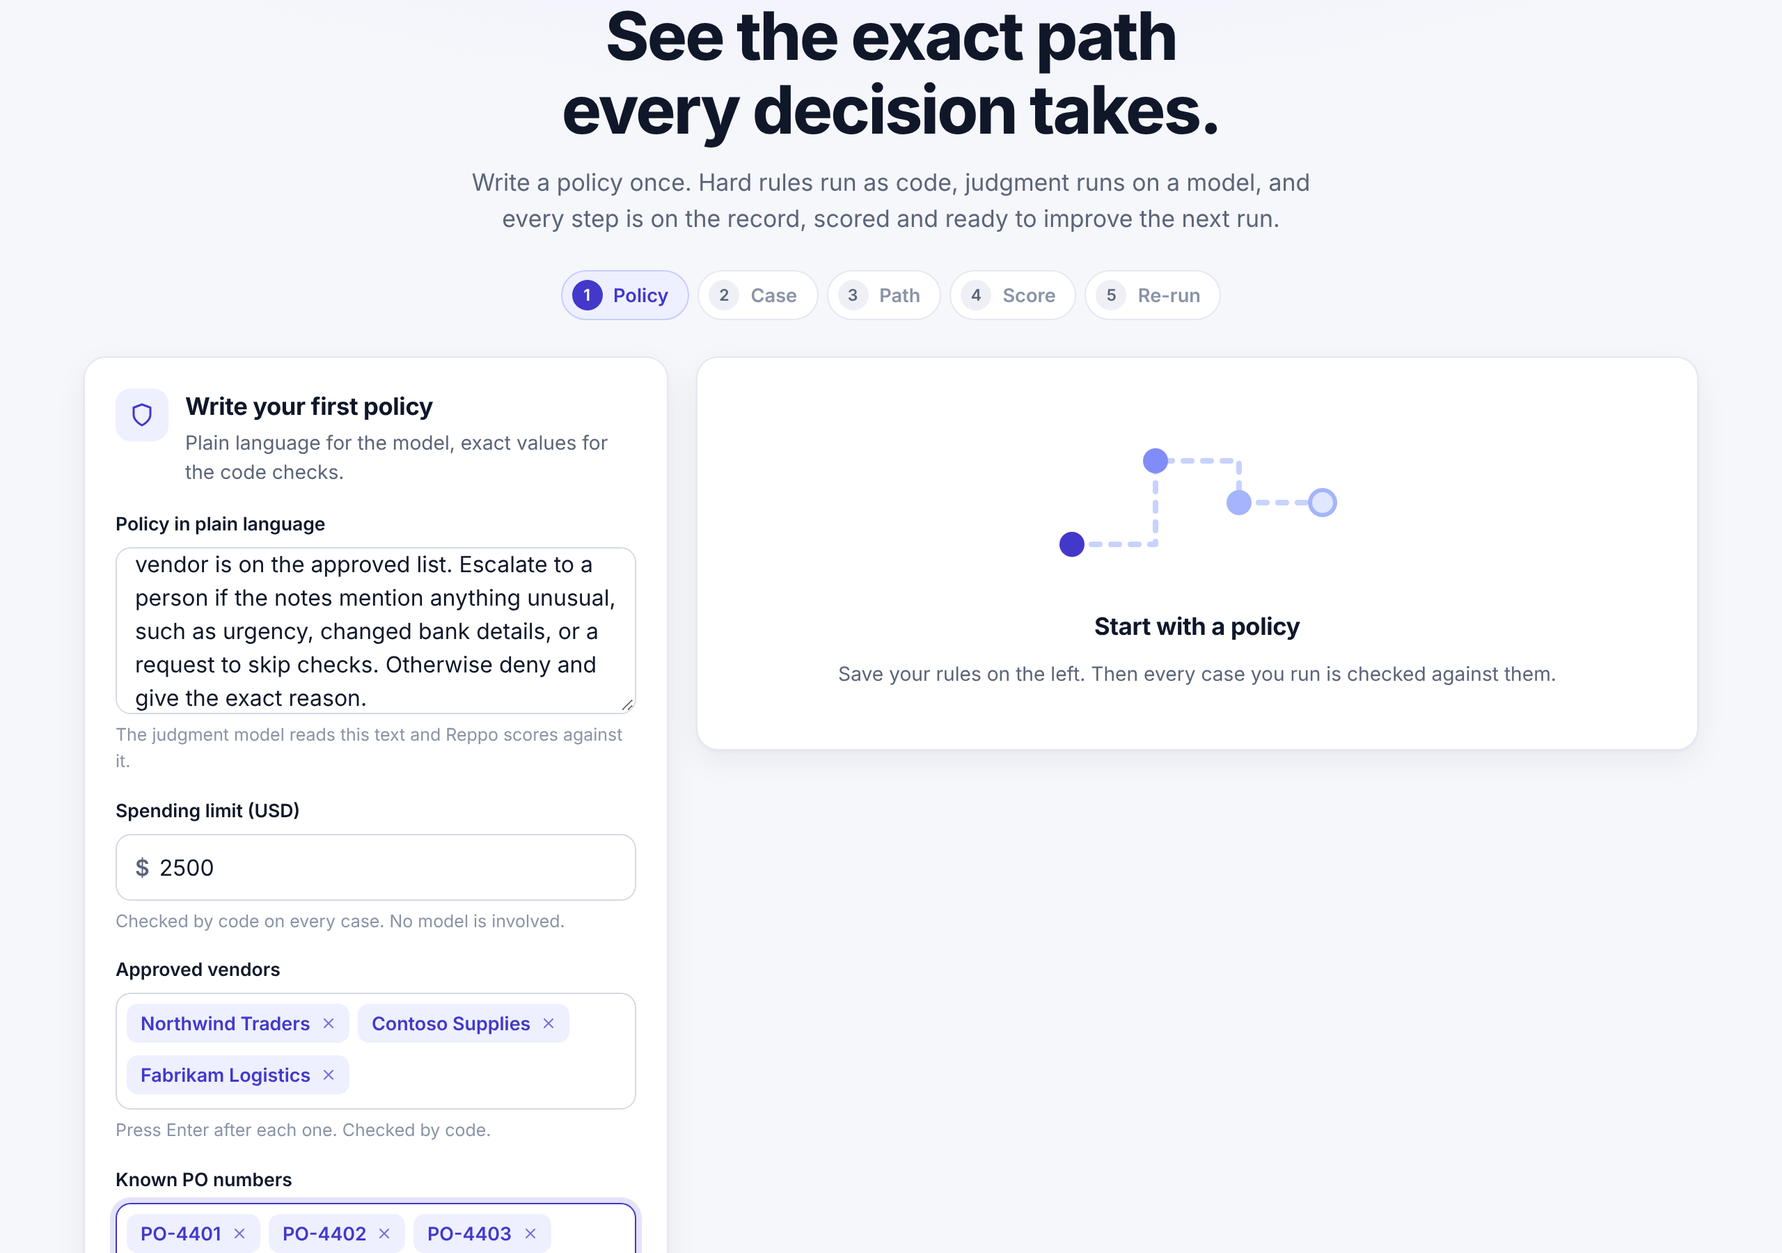
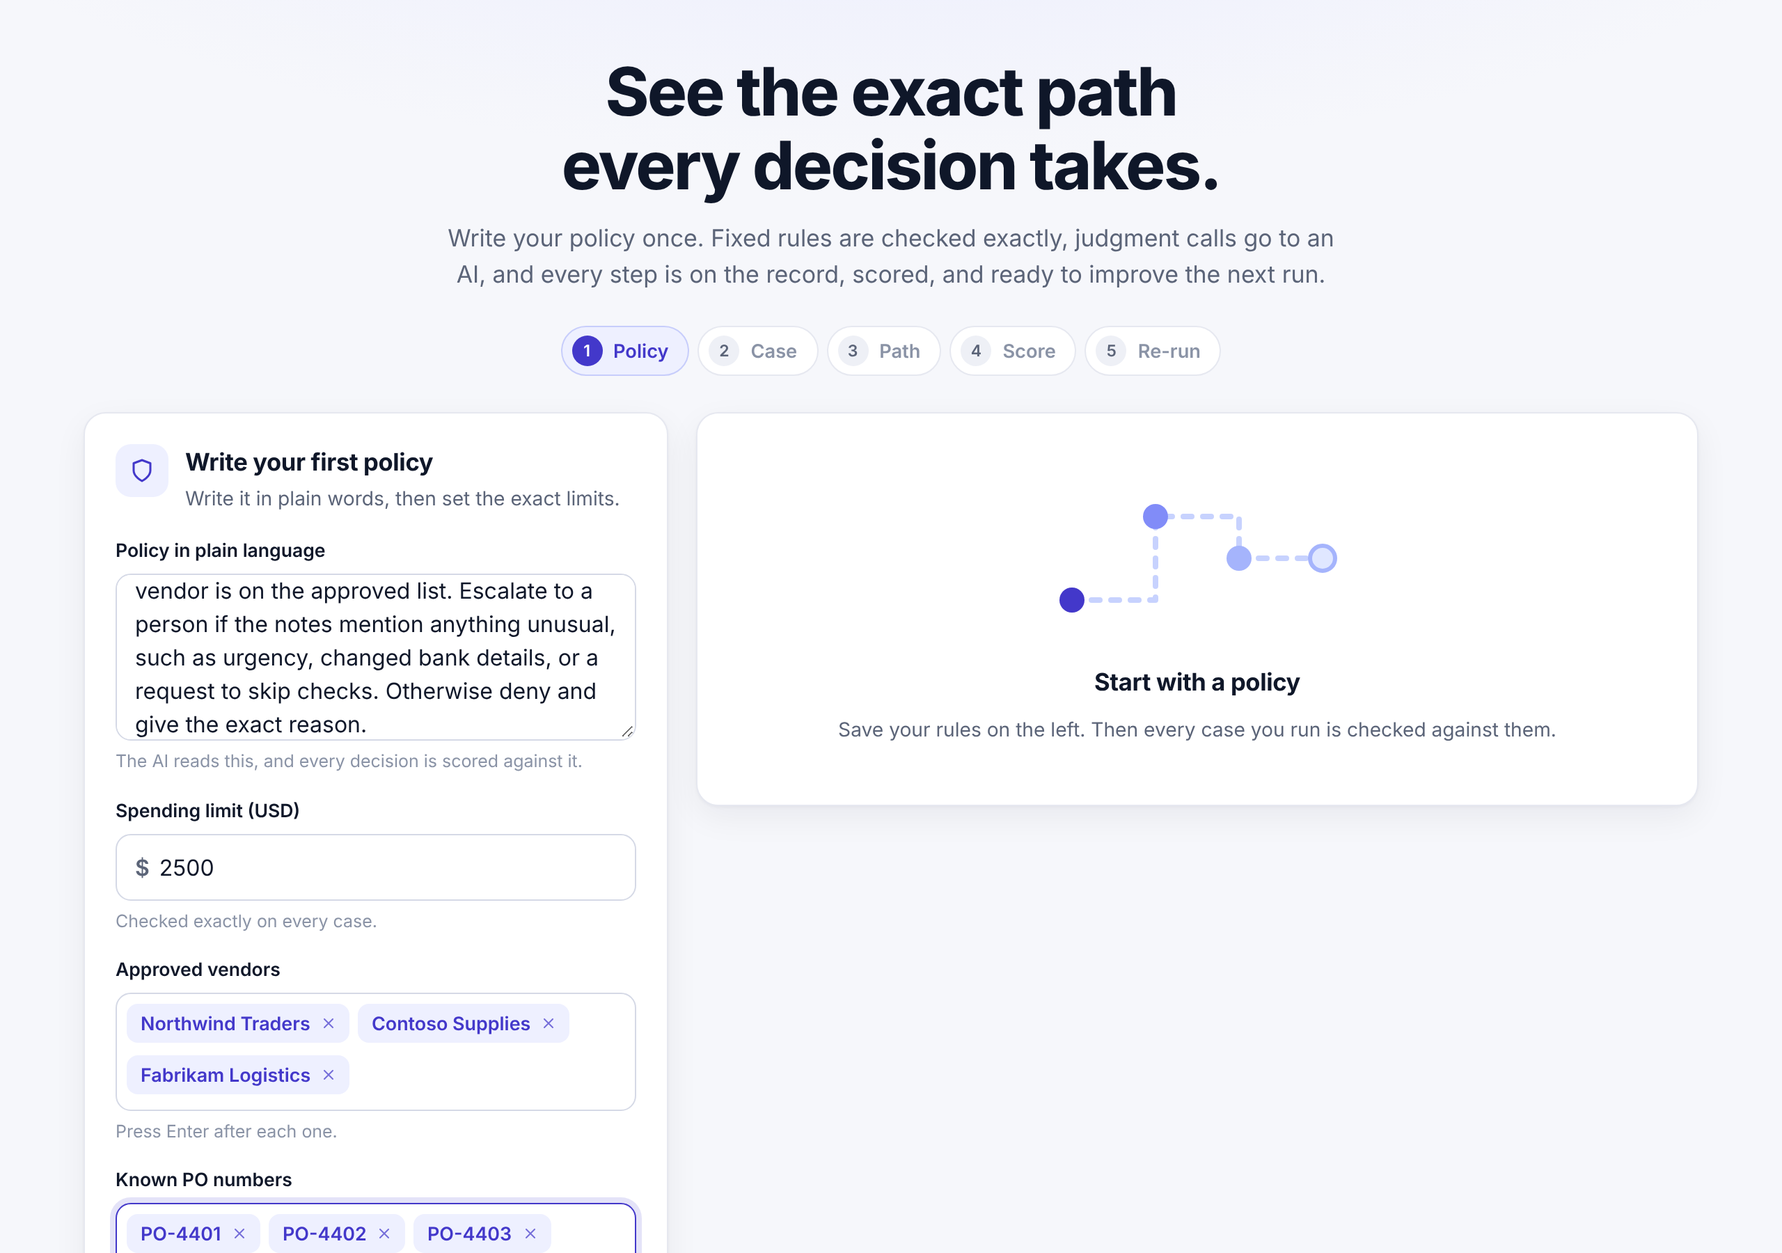
Use plain language across the interface and docs, refresh screenshots

diff --git a/app/components/PathGraph.tsx b/app/components/PathGraph.tsx
@@ -1,4 +1,4 @@
-import { cap, duration, humanize } from "@/lib/format";
+import { duration, providerLabel, resultLabel, stepLabel } from "@/lib/format";
 import type { Step } from "@/lib/types";
 import { AlertIcon, CheckIcon, CodeIcon, SkipIcon, SparkIcon, XIcon } from "./Icons";
 
@@ -23,7 +23,7 @@ const ToneIcon = ({ t }: { t: Tone }) =>
 
 export function PathSkeleton() {
   return (
-    <div className="graph" aria-busy="true" aria-label="Running the path">
+    <div className="graph" aria-busy="true" aria-label="Checking the case">
       {[0, 1, 2, 3].map((i) => (
         <div key={i}>
           <div className="node skeleton" style={{ animationDelay: `${i * 120}ms` }}>
@@ -44,8 +44,8 @@ export default function PathGraph({ path, ms }: { path: Step[]; ms?: number }) {
   return (
     <div>
       <div className="path-stats">
-        <span className="stat code"><CodeIcon width={14} height={14} /> {code} code step{code === 1 ? "" : "s"}</span>
-        <span className="stat model"><SparkIcon width={14} height={14} /> {model} model call{model === 1 ? "" : "s"}</span>
+        <span className="stat code"><CodeIcon width={14} height={14} /> {code} rule check{code === 1 ? "" : "s"}</span>
+        <span className="stat model"><SparkIcon width={14} height={14} /> {model} AI judgment{model === 1 ? "" : "s"}</span>
         {skipped > 0 && <span className="stat skip"><SkipIcon width={14} height={14} /> {skipped} skipped</span>}
         {ms !== undefined && <span className="stat time">{duration(ms)} total</span>}
       </div>
@@ -59,16 +59,16 @@ export default function PathGraph({ path, ms }: { path: Step[]; ms?: number }) {
                 <span className={`node-icon ${s.type}`}>{s.type === "code" ? <CodeIcon width={16} height={16} /> : <SparkIcon width={16} height={16} />}</span>
                 <div className="node-body">
                   <div className="node-head">
-                    <span className="node-name">{humanize(s.step)}</span>
-                    <span className={`pill ${t}`}><ToneIcon t={t} /> {cap(s.result)}</span>
+                    <span className="node-name">{stepLabel(s.step)}</span>
+                    <span className={`pill ${t}`}><ToneIcon t={t} /> {resultLabel(s.result)}</span>
                   </div>
                   <div className="node-meta">
-                    <span className={`kind ${s.type}`}>{s.type === "code" ? "Code" : "Model"}</span>
-                    {s.provider && <span className="provider">{s.provider}</span>}
+                    <span className={`kind ${s.type}`}>{s.type === "code" ? "Rule" : "AI"}</span>
+                    {s.provider && <span className="provider">{providerLabel(s.provider)}</span>}
                     {s.ms !== undefined && <span className="provider">{duration(s.ms)}</span>}
                   </div>
                   {s.detail && <p className="node-detail">{s.detail}</p>}
-                  {s.fallbacks?.map((f, k) => <p className="node-note" key={k}>Passed on by {f}</p>)}
+                  {s.fallbacks?.map((f, k) => <p className="node-note" key={k}>Tried first: {f}</p>)}
                 </div>
               </div>
               {i < path.length - 1 && <div className="link" style={{ animationDelay: `${i * 90 + 60}ms` }} />}

diff --git a/app/page.tsx b/app/page.tsx
@@ -171,7 +171,7 @@ export default function Home() {
       <main className="wrap">
         <section className="hero">
           <h1>See the exact path every decision takes.</h1>
-          <p>Write a policy once. Hard rules run as code, judgment runs on a model, and every step is on the record, scored and ready to improve the next run.</p>
+          <p>Write your policy once. Fixed rules are checked exactly, judgment calls go to an AI, and every step is on the record, scored, and ready to improve the next run.</p>
           <Stepper done={done} />
         </section>
 
@@ -188,7 +188,7 @@ export default function Home() {
 
             {running && (
               <section className="card">
-                <header className="card-head tight"><div><h2>Running the path</h2><p className="sub">Hard checks first, then the judgment step.</p></div></header>
+                <header className="card-head tight"><div><h2>Checking the case</h2><p className="sub">Fixed rules first, then the AI judgment.</p></div></header>
                 <PathSkeleton />
               </section>
             )}
@@ -218,7 +218,7 @@ export default function Home() {
 
                 {current && (
                   <button className="btn secondary lg rerun" onClick={() => run(current)} disabled={running}>
-                    <RepeatIcon width={17} height={17} /> Run again with stored feedback
+                    <RepeatIcon width={17} height={17} /> Run again with feedback
                   </button>
                 )}
               </>
@@ -231,7 +231,7 @@ export default function Home() {
                   <circle cx="20" cy="90" r="9" fill="#4338ca" /><circle cx="80" cy="30" r="9" fill="#818cf8" /><circle cx="140" cy="60" r="9" fill="#a5b4fc" /><circle cx="200" cy="60" r="9" fill="#e0e7ff" stroke="#a5b4fc" strokeWidth="3" />
                 </svg>
                 <h2>{policy ? "Your decision path will appear here" : "Start with a policy"}</h2>
-                <p className="sub">{policy ? "Run a case and every step shows up live: the code checks, the model call, and the score." : "Save your rules on the left. Then every case you run is checked against them."}</p>
+                <p className="sub">{policy ? "Run a case and every step shows up live: the rule checks, the AI judgment, and the score." : "Save your rules on the left. Then every case you run is checked against them."}</p>
               </section>
             )}
 
@@ -240,7 +240,7 @@ export default function Home() {
         </div>
       </main>
 
-      <footer className="foot wrap">Openpath · Hard rules in code, judgment in a model, every step on record.</footer>
+      <footer className="foot wrap">Openpath · Fixed rules, AI judgment, every step on record.</footer>
     </>
   );
 }

diff --git a/app/components/PolicyCard.tsx b/app/components/PolicyCard.tsx
@@ -51,7 +51,7 @@ export default function PolicyCard({ policy, onSave, onReset }: Props) {
           <div>
             <h2 id="policy-title">{policy ? "Policy" : "Write your first policy"}</h2>
             <p className="sub">
-              {policy ? "The rules every case is checked against." : "Plain language for the model, exact values for the code checks."}
+              {policy ? "The rules every case is checked against." : "Write it in plain words, then set the exact limits."}
             </p>
           </div>
         </div>
@@ -79,17 +79,17 @@ export default function PolicyCard({ policy, onSave, onReset }: Props) {
             <label className="label" htmlFor="ptext">Policy in plain language</label>
             <textarea id="ptext" rows={4} value={text} onChange={(e) => setText(e.target.value)} required
               placeholder="Describe when a case should be approved, denied, or sent to a person." />
-            <p className="hint">The judgment model reads this text and Reppo scores against it.</p>
+            <p className="hint">The AI reads this, and every decision is scored against it.</p>
           </div>
           <div className="field">
             <label className="label" htmlFor="plimit">Spending limit (USD)</label>
             <div className="input-prefix"><span>$</span>
               <input id="plimit" type="number" min="0" step="0.01" value={limit} onChange={(e) => setLimit(e.target.value)} required placeholder="0.00" />
             </div>
-            <p className="hint">Checked by code on every case. No model is involved.</p>
+            <p className="hint">Checked exactly on every case.</p>
           </div>
-          <TagInput label="Approved vendors" hint="Press Enter after each one. Checked by code." values={vendors} onChange={setVendors} placeholder="Add a vendor" />
-          <TagInput label="Known PO numbers" hint="Press Enter after each one. Checked by code." values={pos} onChange={setPos} placeholder="Add a PO number" />
+          <TagInput label="Approved vendors" hint="Press Enter after each one." values={vendors} onChange={setVendors} placeholder="Add a vendor" />
+          <TagInput label="Known PO numbers" hint="Press Enter after each one." values={pos} onChange={setPos} placeholder="Add a PO number" />
           {error && <p className="notice err" role="alert">{error}</p>}
           <div className="row">
             <button className="btn primary" disabled={saving}>{saving ? "Saving…" : policy ? "Save changes" : "Save policy"}</button>

diff --git a/app/components/ScoreCard.tsx b/app/components/ScoreCard.tsx
@@ -1,7 +1,7 @@
 "use client";
 
 import { useEffect, useState } from "react";
-import { humanize } from "@/lib/format";
+import { humanize, routeLabel, verdictLabel } from "@/lib/format";
 import type { EvalResult } from "@/lib/types";
 
 type Props = {
@@ -44,7 +44,6 @@ export default function ScoreCard({ evalId, state, message, previous, elapsed }:
           <h2>Reppo score</h2>
           <p className="sub">Independent evaluators score every decision.</p>
         </div>
-        {evalId && <code className="evalid" title="Evaluation id">{evalId.slice(0, 10)}…</code>}
       </header>
 
       {message && !evalId && <p className="notice info">{message}</p>}
@@ -59,7 +58,7 @@ export default function ScoreCard({ evalId, state, message, previous, elapsed }:
         </div>
       )}
 
-      {state?.status === "FAILED" && <p className="notice info">{state.reason ?? "The evaluation ended early. Run the case again to score it."}</p>}
+      {state?.status === "FAILED" && <p className="notice info">{state.reason ?? "The scoring ended early. Run the case again to score it."}</p>}
 
       {settled && state && (
         <div className="score-body rise">
@@ -67,11 +66,11 @@ export default function ScoreCard({ evalId, state, message, previous, elapsed }:
             <Ring score={state.score!} />
             <div className="score-meta">
               <div className="chips">
-                {state.verdict && <span className={`pill ${state.verdict === "accept" ? "pass" : "fail"}`}>{humanize(state.verdict)}</span>}
-                {state.route && <span className="pill info">Route: {state.route}</span>}
+                {state.verdict && <span className={`pill ${state.verdict === "accept" ? "pass" : "fail"}`}>{verdictLabel(state.verdict)}</span>}
+                {state.route && <span className="pill info">{routeLabel(state.route)}</span>}
                 {delta !== undefined && (
                   <span className={`pill ${delta >= 0 ? "pass" : "warn"}`}>
-                    {delta >= 0 ? "▲" : "▼"} {Math.abs(delta)} vs previous run ({previous})
+                    {delta === 0 ? `Steady at ${previous}` : `${delta > 0 ? "▲ +" : "▼ "}${Math.abs(delta)} vs previous run (${previous})`}
                   </span>
                 )}
               </div>

diff --git a/app/api/decide/route.ts b/app/api/decide/route.ts
@@ -5,6 +5,7 @@ import { latestScored } from "@/lib/history";
 import { judge } from "@/lib/judge";
 import { kiteChecks } from "@/lib/kite";
 import { getPolicy } from "@/lib/policy";
+import { routeLabel, stepLabel, verdictLabel } from "@/lib/format";
 import type { Case, Decision } from "@/lib/types";
 
 export async function POST(req: Request) {
@@ -34,7 +35,7 @@ export async function POST(req: Request) {
     step: "load_feedback",
     type: "code",
     result: prior ? `previous score ${prior.score}/100` : "first run",
-    detail: prior ? `verdict: ${prior.verdict}, route: ${prior.route}` : undefined,
+    detail: prior ? `${verdictLabel(prior.verdict ?? "")} · ${routeLabel(prior.route ?? "")}` : undefined,
   });
   const failed = path.filter((s) => s.result === "failed");
 
@@ -44,11 +45,11 @@ export async function POST(req: Request) {
       step: "model_judgment",
       type: "model",
       result: "skipped",
-      detail: "A hard rule already decided this case, so no model judgment is needed.",
+      detail: "A rule already decided this case, so the AI judgment was not needed.",
     });
     const out: Decision = {
       decision: "deny",
-      reason: `Denied by rule: ${failed.map((s) => s.step.replace(/_/g, " ")).join(", ")}`,
+      reason: `Denied by rule: ${failed.map((s) => stepLabel(s.step).toLowerCase()).join(", ")}`,
       path,
       ms: Date.now() - started,
     };
@@ -70,16 +71,17 @@ export async function POST(req: Request) {
     const out: Decision = { decision: j.decision, reason: j.reason, path, ms: Date.now() - started };
     return NextResponse.json(out);
   } catch (e) {
+    console.error("Judgment step failed:", e);
     path.push({
       step: "model_judgment",
       type: "model",
       result: "escalate",
-      detail: String(e).replace(/^Error: /, "").slice(0, 300),
+      detail: "The AI provider did not return an answer.",
       ms: Date.now() - t,
     });
     const out: Decision = {
       decision: "escalate",
-      reason: "The judgment step could not answer, so this case goes to a person.",
+      reason: "The AI judgment did not come through, so this case goes to a person.",
       path,
       ms: Date.now() - started,
     };

diff --git a/lib/checks.ts b/lib/checks.ts
@@ -1,3 +1,4 @@
+import { money } from "./format";
 import type { Policy } from "./policy";
 import type { Case, Step } from "./types";
 
@@ -9,20 +10,30 @@ export function runCodeChecks(c: Case, policy: Policy): Step[] {
   const fieldsOk = Number.isFinite(c.amount) && c.amount > 0 && !!c.vendor && !!c.invoiceNumber;
   steps.push({ step: "parse_case", type: "code", result: fieldsOk ? "ok" : "failed" });
 
-  // The spending limit you set in the policy. Kite Passport limits are checked separately.
+  // The spending limit from the policy. Kite Passport limits are checked separately.
   const underLimit = c.amount <= limit;
   steps.push({
     step: "policy_spending_limit",
     type: "code",
     result: underLimit ? "passed" : "failed",
-    detail: `amount ${c.amount} vs policy limit ${limit}`,
+    detail: underLimit ? `${money(c.amount)} is within the ${money(limit)} limit` : `${money(c.amount)} is over the ${money(limit)} limit`,
   });
 
   const poKnown = policy.pos.includes(c.invoiceNumber.trim().toUpperCase());
-  steps.push({ step: "po_match", type: "code", result: poKnown ? "passed" : "failed" });
+  steps.push({
+    step: "po_match",
+    type: "code",
+    result: poKnown ? "passed" : "failed",
+    detail: poKnown ? `${c.invoiceNumber.trim()} is a known PO` : `${c.invoiceNumber.trim()} is not on the known PO list`,
+  });
 
   const vendorOk = policy.vendors.some((v) => v.toLowerCase() === c.vendor.trim().toLowerCase());
-  steps.push({ step: "vendor_allowlist", type: "code", result: vendorOk ? "passed" : "failed" });
+  steps.push({
+    step: "vendor_allowlist",
+    type: "code",
+    result: vendorOk ? "passed" : "failed",
+    detail: vendorOk ? `${c.vendor.trim()} is an approved vendor` : `${c.vendor.trim()} is not on the approved vendor list`,
+  });
 
   return steps;
 }

diff --git a/lib/format.ts b/lib/format.ts
@@ -25,3 +25,33 @@ export function ago(iso: string) {
   if (s < 86400) return `${Math.floor(s / 3600)} h ago`;
   return new Date(iso).toLocaleDateString();
 }
+
+// Plain-language labels for what a person sees. The stored data keeps its short ids.
+const STEP_LABELS: Record<string, string> = {
+  parse_case: "Read the case",
+  policy_spending_limit: "Spending limit",
+  po_match: "PO number",
+  vendor_allowlist: "Approved vendor",
+  kite_identity: "Kite identity",
+  kite_session_limit: "Kite session limit",
+  load_feedback: "Past feedback",
+  model_judgment: "AI judgment",
+};
+export const stepLabel = (id: string) => STEP_LABELS[id] ?? humanize(id);
+
+const RESULT_LABELS: Record<string, string> = { ok: "Done", passed: "Passed", failed: "Failed", skipped: "Skipped" };
+export const resultLabel = (r: string) => RESULT_LABELS[r] ?? cap(r);
+
+const ROUTE_LABELS: Record<string, string> = { ship: "Ready to use", review: "Worth a review", block: "Hold back" };
+export const routeLabel = (r: string) => ROUTE_LABELS[r] ?? cap(r);
+
+const VERDICT_LABELS: Record<string, string> = { accept: "Accepted", reject: "Rejected" };
+export const verdictLabel = (v: string) => VERDICT_LABELS[v] ?? cap(v);
+
+const PROVIDER_NAMES: Record<string, string> = { serv: "SERV Reasoning", dolphin: "Dolphin" };
+// "serv (serv-mini)" -> "SERV Reasoning · serv-mini"
+export function providerLabel(p: string) {
+  const m = p.match(/^(\w+) \((.+)\)$/);
+  if (!m) return p;
+  return `${PROVIDER_NAMES[m[1]] ?? m[1]} · ${m[2]}`;
+}

diff --git a/lib/reppo.ts b/lib/reppo.ts
@@ -26,9 +26,9 @@ export async function submitEval(policy: string, c: Case, d: Decision): Promise<
     `Policy: ${policy}`,
     `Case: ${JSON.stringify(c)}`,
     `Agent action: decision "${d.decision}". Reason: ${d.reason}`,
-    `Path taken (code steps are hard rules run without a model, model steps are judgment calls):`,
+    `Steps taken (steps typed "code" are fixed rules checked exactly with no AI, steps typed "model" are AI judgment calls):`,
     JSON.stringify(d.path),
-    `Assess whether the decision follows the policy exactly, whether the reason is specific and correct, and whether hard rules were enforced by code with the model used only for judgment.`,
+    `Assess whether the decision follows the policy exactly, whether the reason is specific and correct, and whether fixed rules were checked exactly with the AI used only for judgment.`,
   ].join("\n");
 
   const res = await fetch(BASE, {

diff --git a/lib/kite.ts b/lib/kite.ts
@@ -94,7 +94,7 @@ export async function kiteChecks(c: Case): Promise<Step[]> {
     const s = await activeSession();
     const fail = (detail: string) => steps.push({ step: "kite_session_limit", type: "code", result: "failed", detail });
 
-    if (!s) fail("no active Passport session. Approve one with kpass agent:session create");
+    if (!s) fail("No active Passport session yet. Approve one in Kite Passport to continue.");
     else if (s.perTx === undefined && s.total === undefined) fail("the active session reports no spending limits");
     else if (s.perTx !== undefined && c.amount > s.perTx) fail(`amount ${money(c.amount)} is over the session per-transaction limit of ${money(s.perTx)}`);
     else if (s.total !== undefined && c.amount > s.total - s.spent - s.reserved) {

diff --git a/app/components/CaseForm.tsx b/app/components/CaseForm.tsx
@@ -53,7 +53,7 @@ export default function CaseForm({ policy, draft, onChange, onRun, loading }: Pr
           <textarea id="notes" rows={3} value={draft.notes} onChange={set("notes")} placeholder="Anything the reviewer should know about this invoice." />
         </div>
         <button className="btn primary lg" disabled={loading}>
-          {loading ? <><span className="spinner" /> Running the path…</> : <><PlayIcon width={16} height={16} /> Run case</>}
+          {loading ? <><span className="spinner" /> Checking the case…</> : <><PlayIcon width={16} height={16} /> Run case</>}
         </button>
       </form>
     </section>

diff --git a/app/globals.css b/app/globals.css
@@ -180,7 +180,6 @@ textarea { resize: vertical; }
 .shimmer.w1 { width: 46%; } .shimmer.w2 { width: 72%; }
 
 /* Score */
-.evalid { font-size: 0.75rem; color: var(--faint); background: #f3f4f9; padding: 3px 8px; border-radius: 8px; }
 .pending { display: flex; gap: 14px; align-items: center; padding: 14px; background: var(--brand-soft); border-radius: 13px; }
 .pulse { width: 14px; height: 14px; border-radius: 50%; background: var(--brand); flex: none; animation: pulse 1.4s infinite; }
 .score-top { display: flex; gap: 20px; align-items: center; flex-wrap: wrap; }

diff --git a/app/components/Integrations.tsx b/app/components/Integrations.tsx
@@ -1,8 +1,8 @@
 export type Status = { serv: boolean; dolphin: boolean; reppo: boolean; kite: boolean };
 
 const ITEMS: { key: keyof Status; name: string; role: string }[] = [
-  { key: "serv", name: "SERV Reasoning", role: "judgment" },
-  { key: "dolphin", name: "Dolphin", role: "open models" },
+  { key: "serv", name: "SERV Reasoning", role: "AI judgment" },
+  { key: "dolphin", name: "Dolphin", role: "open AI models" },
   { key: "reppo", name: "Reppo", role: "scoring" },
   { key: "kite", name: "Kite Passport", role: "identity and limits" },
 ];
